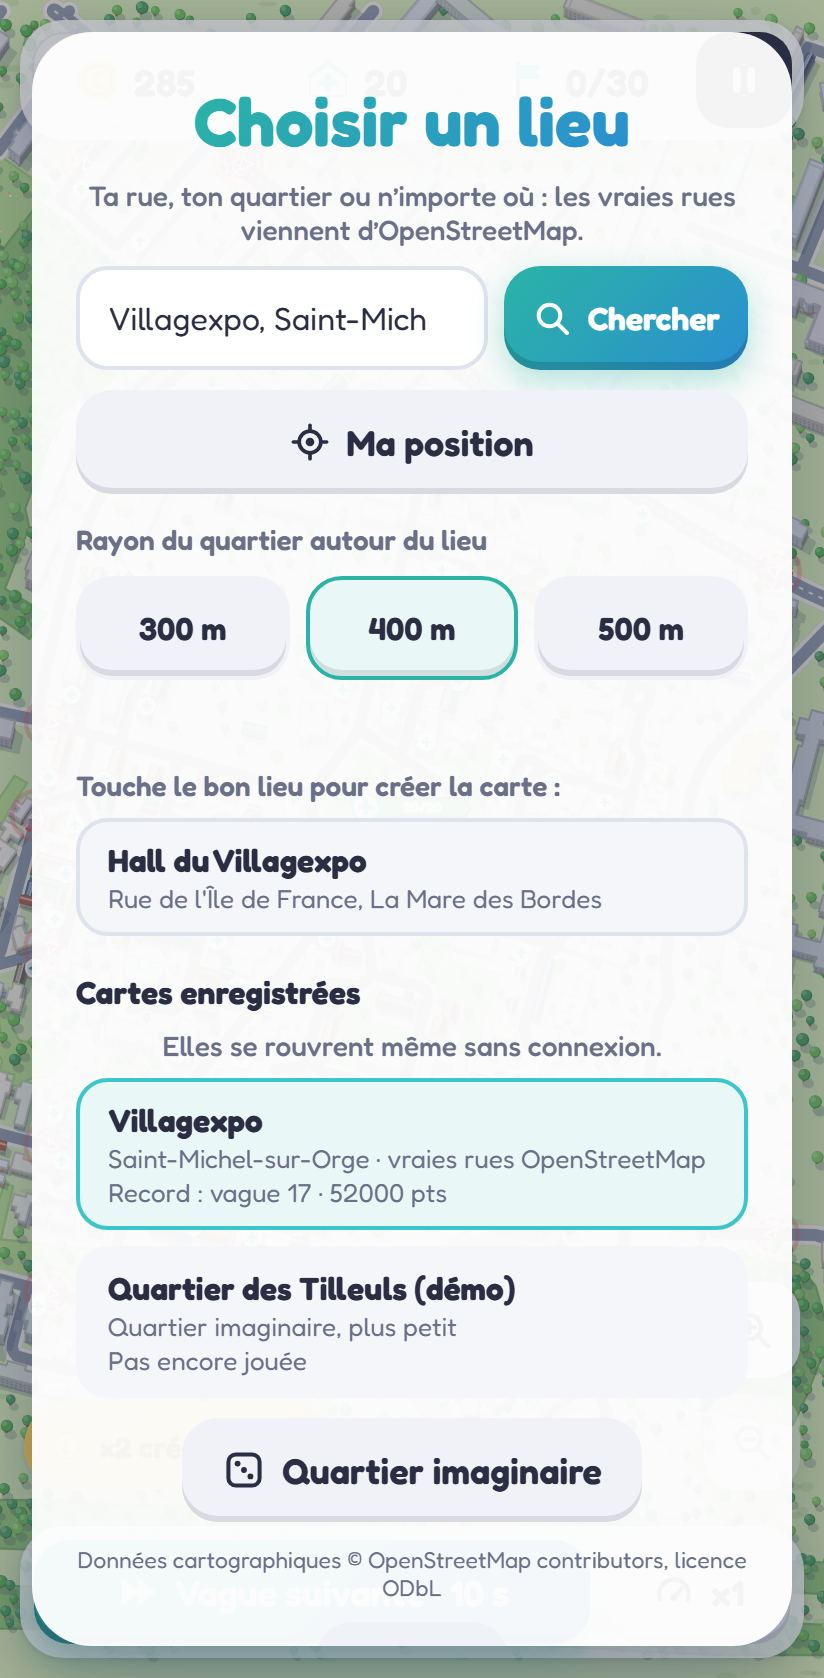
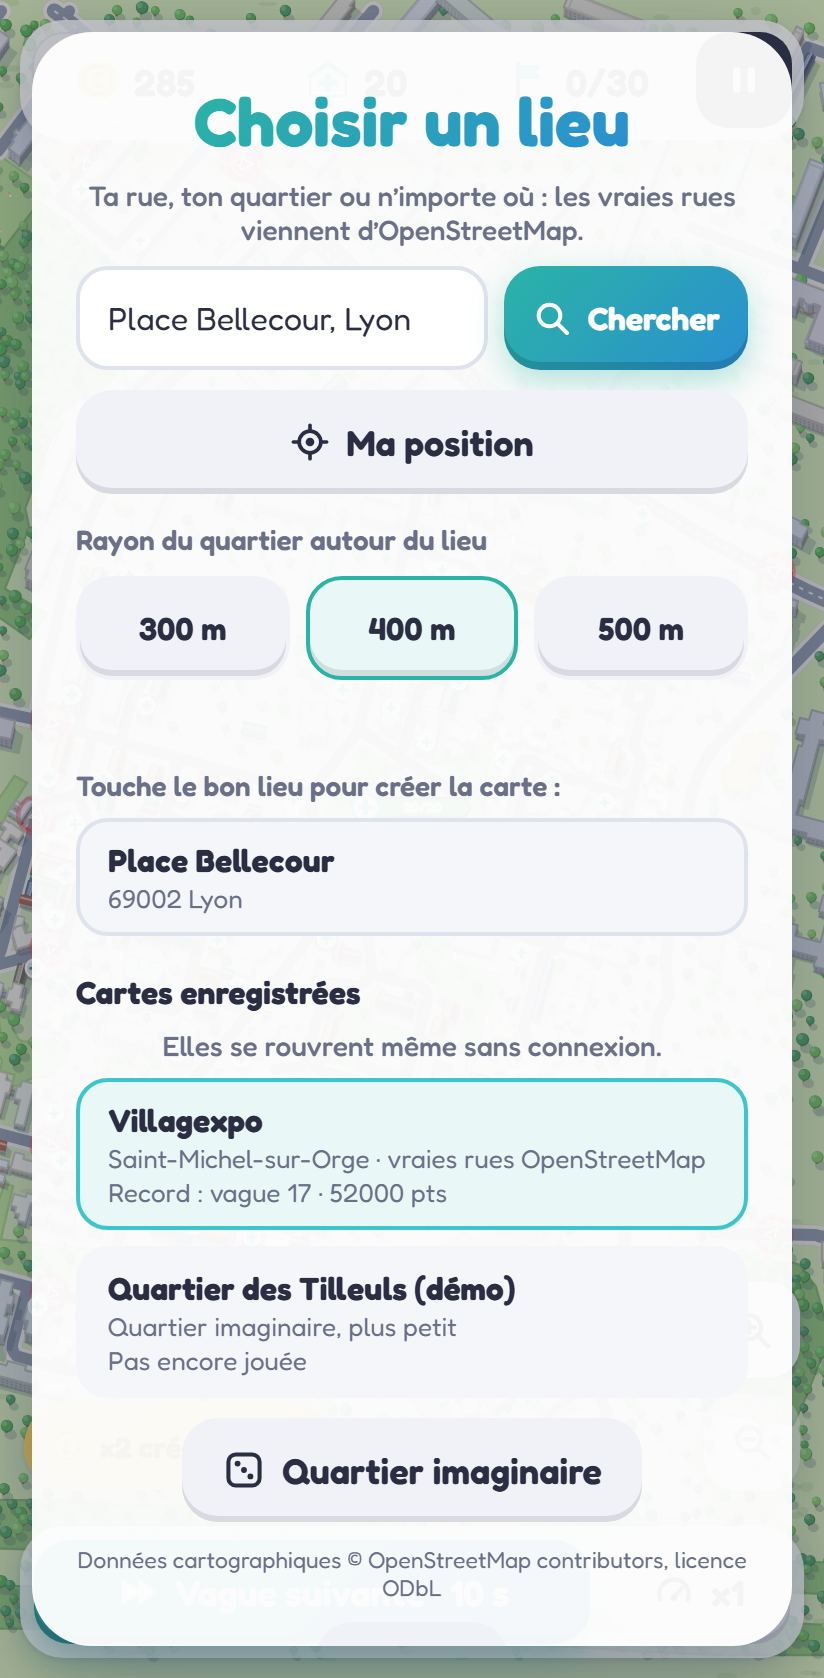
Essai sur 20 adresses : 17 cartes réelles jouables, 2 secours, 1 message
npm run test-places (26/10/2026) : grandes villes, quartier d'affaires,
centres historiques, village perché, montagne, île, village rural,
Bruxelles, adresse avec numéro et adresse introuvable. Aucune partie
injouable ; compte rendu dans docs/essai-adresses.md.

Les serveurs Overpass chargés répondent souvent en 30 à 45 s : l'appli
attend maintenant 45 s par serveur (au lieu de 25) avant d'essayer le
suivant. Captures 14 à 17 refaites avec les vraies données de la place
Bellecour.

diff --git a/README.md b/README.md
@@ -106,7 +106,7 @@ Choix faits sans validation explicite, à revoir si besoin.
 
 - **Choisir un lieu** : un champ d'adresse et un bouton **Chercher** (pas d'autocomplétion, au plus une requête Nominatim toutes les 1,1 s). Jusqu'à 5 résultats ; les doublons (même nom, même commune, à moins de 400 m : la place, sa station de métro, ses rues) sont fusionnés. **Ma position** : la position n'est demandée qu'à l'appui ; le nom du lieu vient de Nominatim (recherche inverse), la carte reste centrée sur la position.
 - **Rayon** : 300, 400 (par défaut) ou 500 m. La zone de jeu garde la forme portrait de Villagexpo et suit le rayon : 1,25 × 2,25 fois le rayon (375 × 675, 500 × 900, 625 × 1 125 m). Le choix du rayon dure le temps de la session.
-- **Une requête Overpass par carte** : les rues sur la zone et 220 m autour (les virus viennent de l'extérieur), mais les bâtiments, parcs et plans d'eau seulement sur la zone et ses 90 m de décor : la réponse est environ 40 % plus légère. Le serveur dispose de 20 s ; l'appli attend 25 s au plus par serveur, puis essaie le suivant : overpass-api.de, puis overpass.private.coffee, puis le serveur public de VK Maps (maps.mail.ru). Au départ, la liste contenait aussi overpass.kumi.systems, mais c'est l'ancien nom de private.coffee (même machine) : il a été remplacé par VK Maps pour avoir deux secours vraiment indépendants. L'écran de chargement l'indique (« Serveur occupé : essai du serveur de secours 1 »). Sur Android, les requêtes passent par le système avec un User-Agent StreetDefense ; sur le web, le navigateur envoie l'adresse du site.
+- **Une requête Overpass par carte** : les rues sur la zone et 220 m autour (les virus viennent de l'extérieur), mais les bâtiments, parcs et plans d'eau seulement sur la zone et ses 90 m de décor : la réponse est environ 40 % plus légère. Le serveur dispose de 20 s de calcul ; l'appli attend 45 s au plus par serveur (d'abord 25 s, mais l'essai des 20 adresses a montré que les serveurs chargés répondent souvent en 30 à 45 s), puis essaie le suivant : overpass-api.de, puis overpass.private.coffee, puis le serveur public de VK Maps (maps.mail.ru). Au départ, la liste contenait aussi overpass.kumi.systems, mais c'est l'ancien nom de private.coffee (même machine) : il a été remplacé par VK Maps pour avoir deux secours vraiment indépendants. L'écran de chargement l'indique (« Serveur occupé : essai du serveur de secours 1 »). Sur Android, les requêtes passent par le système avec un User-Agent StreetDefense ; sur le web, le navigateur envoie l'adresse du site.
 - **Construction dans un worker** : l'écran de chargement reste animé et **Annuler** répond tout de suite. La plantation des arbres utilise maintenant un index spatial : même résultat, 5 fois plus vite (construction de Villagexpo : 850 → 160 ms sur PC).
 - **Carte jouable ou message clair** (§ 4 « Cas dégradés ») : la carte doit passer la validation (itinéraires jusqu'à la base, 25 à 60 emplacements) et avoir des itinéraires de **600 m en moyenne**. Sinon le rayon est agrandi de 100 m, jusqu'à 600 m (une nouvelle requête à chaque fois) ; sinon, **quartier imaginaire** avec un message. Si les serveurs ne répondent pas : message, **Réessayer**, et la possibilité de jouer un quartier imaginaire. Adresse introuvable : message.
 - **Base** : adresse avec numéro → le bâtiment qui contient le point géocodé, sinon le plus proche à moins de 25 m (s'il est près d'une rue) ; sinon la règle du bâtiment le plus imposant ou central. Les constructions souterraines (parkings, stations : `layer` négatif, `location=underground`…) sont ignorées : à Lyon, le parking sous la place Bellecour devenait la base.
@@ -117,9 +117,9 @@ Choix faits sans validation explicite, à revoir si besoin.
 - **Bâtiments publics reconnaissables** (révision 2) : d'après les étiquettes OSM ou le nom, les lieux de culte ont un **clocher avec sa flèche** (à l'extrémité ouest, ou nord) et un toit à deux pans, les mairies un **drapeau tricolore**, les écoles un **toit jaune**. Les autres modèles (maisons à deux pans, hauteur selon `building:levels`) existaient déjà.
 - **Android** : permissions de localisation déclarées (demandées seulement à l'appui sur **Ma position**).
 - **Version** : 0.4.0.
-- **Essai sur 20 adresses** (critère du jalon) : `npm run test-places` (grandes villes, village perché, montagne, îles, aéroport, quartier d'affaires, Bruxelles, adresse avec numéro, adresse introuvable). **Pas encore lancé jusqu'au bout** : le 25/10/2026 au soir, tous les serveurs Overpass publics étaient en panne ; les résultats iront dans `docs/essai-adresses.md`. Déjà vérifié à la main dans le navigateur : place Bellecour à Lyon (20 entrées, 51 itinéraires de 740 m en moyenne, 60 emplacements), message « serveurs indisponibles » avec Réessayer, quartier imaginaire, zone agrandie, reprise d'une partie sur une carte enregistrée.
+- **Essai sur 20 adresses** (critère du jalon, `npm run test-places`, détail dans [`docs/essai-adresses.md`](docs/essai-adresses.md)) : **17 cartes réelles jouables**, 2 lieux remplacés par un quartier imaginaire avec un message (aéroport Charles-de-Gaulle : presque que des autoroutes et des voies de service ; Mont-Saint-Michel : ruelles piétonnes, 19 emplacements possibles sur 25 même à 600 m), et un message « adresse introuvable ». Aucune partie injouable. Grandes villes (Paris avec la base à l'adresse, Lyon, Marseille, Toulouse, Bordeaux, Montpellier, Bruxelles), quartier d'affaires (La Défense, zone agrandie à 500 m), centre historique (Carcassonne, Strasbourg agrandi à 500 m), village perché (Gordes), montagne (Chamonix), île (Sein), village rural (Millevaches, agrandi à 500 m). Construction : 0,1 à 1,2 s ; téléchargement : 30 à 230 s ce jour-là, serveurs saturés. « Grand Place, Lille » donne d'abord la Grand Place de Tourcoing : dans l'appli, le joueur choisit parmi les résultats (le script prend toujours le premier).
 - **À décider avant la publication (jalon 6) : règles d'usage d'Overpass.** Le serveur principal (overpass-api.de, géré par l'association FOSSGIS) demande d'identifier l'appli (fait : User-Agent sur Android, adresse du site sur le web), de rester sous environ 10 000 requêtes par jour pour l'ensemble des joueurs, et de passer par un serveur à soi ou payant pour un usage commercial ; il déconseille aussi de servir une appli grand public uniquement avec les serveurs publics, et de les appeler depuis des plateformes de déploiement rapide d'applis générées par IA (il cite lovable.app et netlify.app ; le jeu est sur GitHub Pages). Avec des publicités réelles, le jeu deviendrait un usage commercial. Pistes compatibles avec le « 0 € » : cartes de grandes villes précalculées dans le dépôt (prévu par le cahier des charges), cache sur l'appareil (fait), ou une offre gratuite avec clé (NextGIS, Overpass.ch : 10 000 requêtes par mois), qui demande un compte. Pour les tests actuels (quelques requêtes, publicités de test), l'usage reste modeste.
-- **Écart possible : « carte jouable en moins de 8 s sur 4G »**. Une fois la réponse reçue, la construction prend moins d'une seconde ; mais le délai dépend surtout des serveurs Overpass publics. Le 25/10/2026 au soir, ils étaient saturés pendant des heures (aucune réponse, même à une requête minuscule) : il faut alors patienter ou jouer une carte enregistrée. Si la fréquentation grandit, le cahier des charges prévoit des cartes de grandes villes précalculées dans le dépôt.
+- **Écart : « carte jouable en moins de 8 s sur 4G » n'est pas tenu aujourd'hui.** La construction prend moins d'une seconde (Bruxelles : 0,6 s pour 2,5 Mo de données) et une carte déjà enregistrée s'ouvre tout de suite ; mais le téléchargement dépend des serveurs Overpass publics, surchargés en octobre 2026. Le 25/10 au soir, ils n'ont pas répondu pendant des heures ; le 26/10, chaque carte a demandé de 30 s à près de 4 min. L'écran de chargement montre où on en est et propose Annuler, puis Réessayer ou un quartier imaginaire. Une carte rapide demanderait des cartes précalculées ou un serveur moins chargé (voir le point sur les règles d'usage ci-dessus).
 
 ### Jalon 3 : écrans, sauvegarde, publicités, Android
 
@@ -197,7 +197,7 @@ Choix faits sans validation explicite, à revoir si besoin.
 
   Écarts notés : la difficulté dépend beaucoup de la carte (une seule entrée : vague 16 à 24 pour le joueur moyen ; 4 entrées : vague 8 à 13). **Sur Villagexpo, le joueur moyen va beaucoup plus loin (vague 25 en moyenne)**, malgré ses 10 entrées : tous les itinéraires se rejoignent autour du Hall, entouré de toits, où quelques dispositifs couvrent tous les virus. Augmenter le nombre de virus ou réduire les emplacements changeait peu le résultat. L'adaptation à la carte ne tient compte que de la longueur des itinéraires, comme le demande le cahier des charges ; un critère d'« entonnoir » près de la base pourrait s'y ajouter au jalon 4, quand les cartes viendront de n'importe quelle adresse. La carte de démonstration est elle aussi très facile (les joueurs automatiques la gagnent) : elle sert de carte de secours et de découverte.
 - **Mode test** (`?debug`) : en plus des 5 000 crédits, la page expose `window.streetDefense` (avancer le temps, faire construire le joueur automatique, test de charge, coût d'une image), utilisé par `npm run captures`.
-- **Captures et fluidité** : `docs/captures/` (profil Pixel 7 de Playwright : 412 × 839 px visibles). Avec 150 à 176 virus à l'écran, Chromium sans affichage (sur PC) tient **59 images/s**. Une image coûte 14 ms dans ce Chromium, qui dessine sans carte graphique ; elle coûte environ 2 ms dans un navigateur avec accélération graphique. **Pas encore vérifié sur un vrai téléphone.**
+- **Captures et fluidité** : `docs/captures/` (profil Pixel 7 de Playwright : 412 × 839 px visibles). Avec 150 à 177 virus à l'écran, Chromium sans affichage (sur PC) tient **54 à 59 images/s** selon les mesures (54 au jalon 4). Une image coûte 14 ms dans ce Chromium, qui dessine sans carte graphique ; elle coûte environ 2 ms dans un navigateur avec accélération graphique. **Pas encore vérifié sur un vrai téléphone.**
 
 ### Révision 1 : ville miniature
 

diff --git a/docs/essai-adresses.md b/docs/essai-adresses.md
@@ -1,0 +1,31 @@
+# Essai sur 20 adresses (jalon 4)
+
+Généré par `npm run test-places` le 26/10/2026, rayon 400 m.
+Critère du cahier des charges : chaque adresse donne un niveau jouable ou un message clair.
+
+**Résultat : 17 cartes réelles jouables sur 20 adresses ; les autres donnent une carte imaginaire avec un message, ou un message clair.**
+
+| # | Adresse | Résultat | Détails | Temps |
+|---|---|---|---|---|
+| 1 | 10 rue de Rivoli, Paris | jouable | 10 Rue de Rivoli (75004 Paris) : 22 entrées, 48 itinéraires de 620 m en moyenne, 60 emplacements, base à l’adresse | 31.7 s de téléchargement (2226 Ko), 0.8 s de construction |
+| 2 | Place Bellecour, Lyon | jouable | Place Bellecour (69002 Lyon) : 20 entrées, 52 itinéraires de 727 m en moyenne, 60 emplacements | 30.0 s de téléchargement (3869 Ko), 0.9 s de construction |
+| 3 | Vieux-Port, Marseille | jouable | Vieux-Port (13002 Marseille) : 23 entrées, 42 itinéraires de 1043 m en moyenne, 60 emplacements | 43.0 s de téléchargement (1786 Ko), 0.5 s de construction |
+| 4 | Place du Capitole, Toulouse | jouable | Place du Capitole (31000 Toulouse) : 22 entrées, 33 itinéraires de 1281 m en moyenne, 60 emplacements | 36.6 s de téléchargement (2469 Ko), 0.7 s de construction |
+| 5 | Grand Place, Lille | jouable | Grand Place (59200 Tourcoing) : 27 entrées, 49 itinéraires de 624 m en moyenne, 60 emplacements | 38.8 s de téléchargement (1878 Ko), 0.5 s de construction |
+| 6 | Petite France, Strasbourg | jouable (rayon 500 m) | La Petite France (67000 Strasbourg) : 26 entrées, 53 itinéraires de 1187 m en moyenne, 60 emplacements | 120.3 s de téléchargement (4209 Ko), 1.1 s de construction |
+| 7 | Rue Sainte-Catherine, Bordeaux | jouable | Rue Sainte-Catherine (33000 Bordeaux) : 28 entrées, 71 itinéraires de 635 m en moyenne, 60 emplacements | 42.8 s de téléchargement (3545 Ko), 1.2 s de construction |
+| 8 | Place de la Comédie, Montpellier | jouable | Place de la Comédie (34062 Montpellier) : 11 entrées, 15 itinéraires de 1573 m en moyenne, 60 emplacements | 197.8 s de téléchargement (2497 Ko), 0.6 s de construction |
+| 9 | Villagexpo, Saint-Michel-sur-Orge | jouable | Hall du Villagexpo (91240 Saint-Michel-sur-Orge) : 10 entrées, 23 itinéraires de 775 m en moyenne, 60 emplacements | 35.6 s de téléchargement (664 Ko), 0.2 s de construction |
+| 10 | 1 avenue du Général de Gaulle, Créteil | jouable | Immeuble Le Pascal (94000 Créteil) : 13 entrées, 27 itinéraires de 882 m en moyenne, 60 emplacements, base à l’adresse | 40.9 s de téléchargement (710 Ko), 0.2 s de construction |
+| 11 | La Défense, Puteaux | jouable (rayon 500 m) | La Défense - Grande Arche (92800 Puteaux) : 31 entrées, 70 itinéraires de 813 m en moyenne, 60 emplacements | 64.9 s de téléchargement (2228 Ko), 1.1 s de construction |
+| 12 | Aéroport Paris-Charles de Gaulle | carte imaginaire + message | Aéroport de Paris-Charles-de-Gaulle : 400 m : pas assez d'emplacements (1 < 25), itinéraires trop courts (81 m < 600 m) ; 500 m : itinéraires trop courts (397 m < 600 m) ; 600 m : itinéraires trop courts (453 m < 600 m) | 108.9 s de téléchargement (804 Ko), 0.2 s de construction |
+| 13 | Gordes | jouable | Gordes (84220 Gordes) : 12 entrées, 23 itinéraires de 824 m en moyenne, 60 emplacements | 104.3 s de téléchargement (700 Ko), 0.2 s de construction |
+| 14 | Chamonix-Mont-Blanc | jouable | Chamonix-Mont-Blanc (74400 Chamonix-Mont-Blanc) : 11 entrées, 18 itinéraires de 1078 m en moyenne, 60 emplacements | 106.2 s de téléchargement (1107 Ko), 0.2 s de construction |
+| 15 | La Cité, Carcassonne | jouable | Hôtel de la Cité (11000 Carcassonne) : 17 entrées, 26 itinéraires de 695 m en moyenne, 60 emplacements | 121.2 s de téléchargement (1439 Ko), 0.3 s de construction |
+| 16 | Mont-Saint-Michel | carte imaginaire + message | Mont Saint-Michel : 400 m : pas assez d'emplacements (9 < 25), itinéraires trop courts (370 m < 600 m) ; 500 m : pas assez d'emplacements (17 < 25), itinéraires trop courts (506 m < 600 m) ; 600 m : pas assez d'emplacements (19 < 25) | 233.9 s de téléchargement (670 Ko), 0.1 s de construction |
+| 17 | Île de Sein | jouable | Île-de-Sein (29990 Quimper) : 4 entrées, 23 itinéraires de 779 m en moyenne, 60 emplacements | 122.2 s de téléchargement (326 Ko), 0.1 s de construction |
+| 18 | Millevaches | jouable (rayon 500 m) | Millevaches (19290 Millevaches) : 5 entrées, 8 itinéraires de 675 m en moyenne, 60 emplacements | 91.2 s de téléchargement (233 Ko), 0.1 s de construction |
+| 19 | Grand-Place, Bruxelles | jouable | Grand-Place (Bruxelles) : 17 entrées, 25 itinéraires de 720 m en moyenne, 60 emplacements | 29.4 s de téléchargement (2534 Ko), 0.6 s de construction |
+| 20 | zzqxw introuvable | message (notFound) | adresse introuvable : « zzqxw introuvable » |  |
+
+Données © OpenStreetMap contributors (licence ODbL).

diff --git a/src/config/README.md b/src/config/README.md
@@ -162,7 +162,7 @@ Cartes créées dans l'appli à partir d'une adresse, d'un lieu ou de la positio
 | `geocodeResults` | Résultats demandés à Nominatim (5), doublons retirés. |
 | `nominatimInterval` | Écart minimal entre deux requêtes Nominatim (1,1 s ; règle d'usage : une par seconde). |
 | `overpassTimeout` | Temps de calcul accordé au serveur Overpass (20 s). |
-| `requestTimeout` | Attente maximale d'une réponse (25 s) avant d'essayer le serveur suivant. |
+| `requestTimeout` | Attente maximale d'une réponse (45 s) avant d'essayer le serveur suivant. Les serveurs publics chargés mettent souvent 30 à 45 s à répondre. |
 | `cacheMaxMaps` | Cartes gardées sur l'appareil (20) ; les moins récemment jouées partent d'abord. |
 | `fallbackAttempts` | Graines essayées pour obtenir un quartier imaginaire jouable (8). |
 
